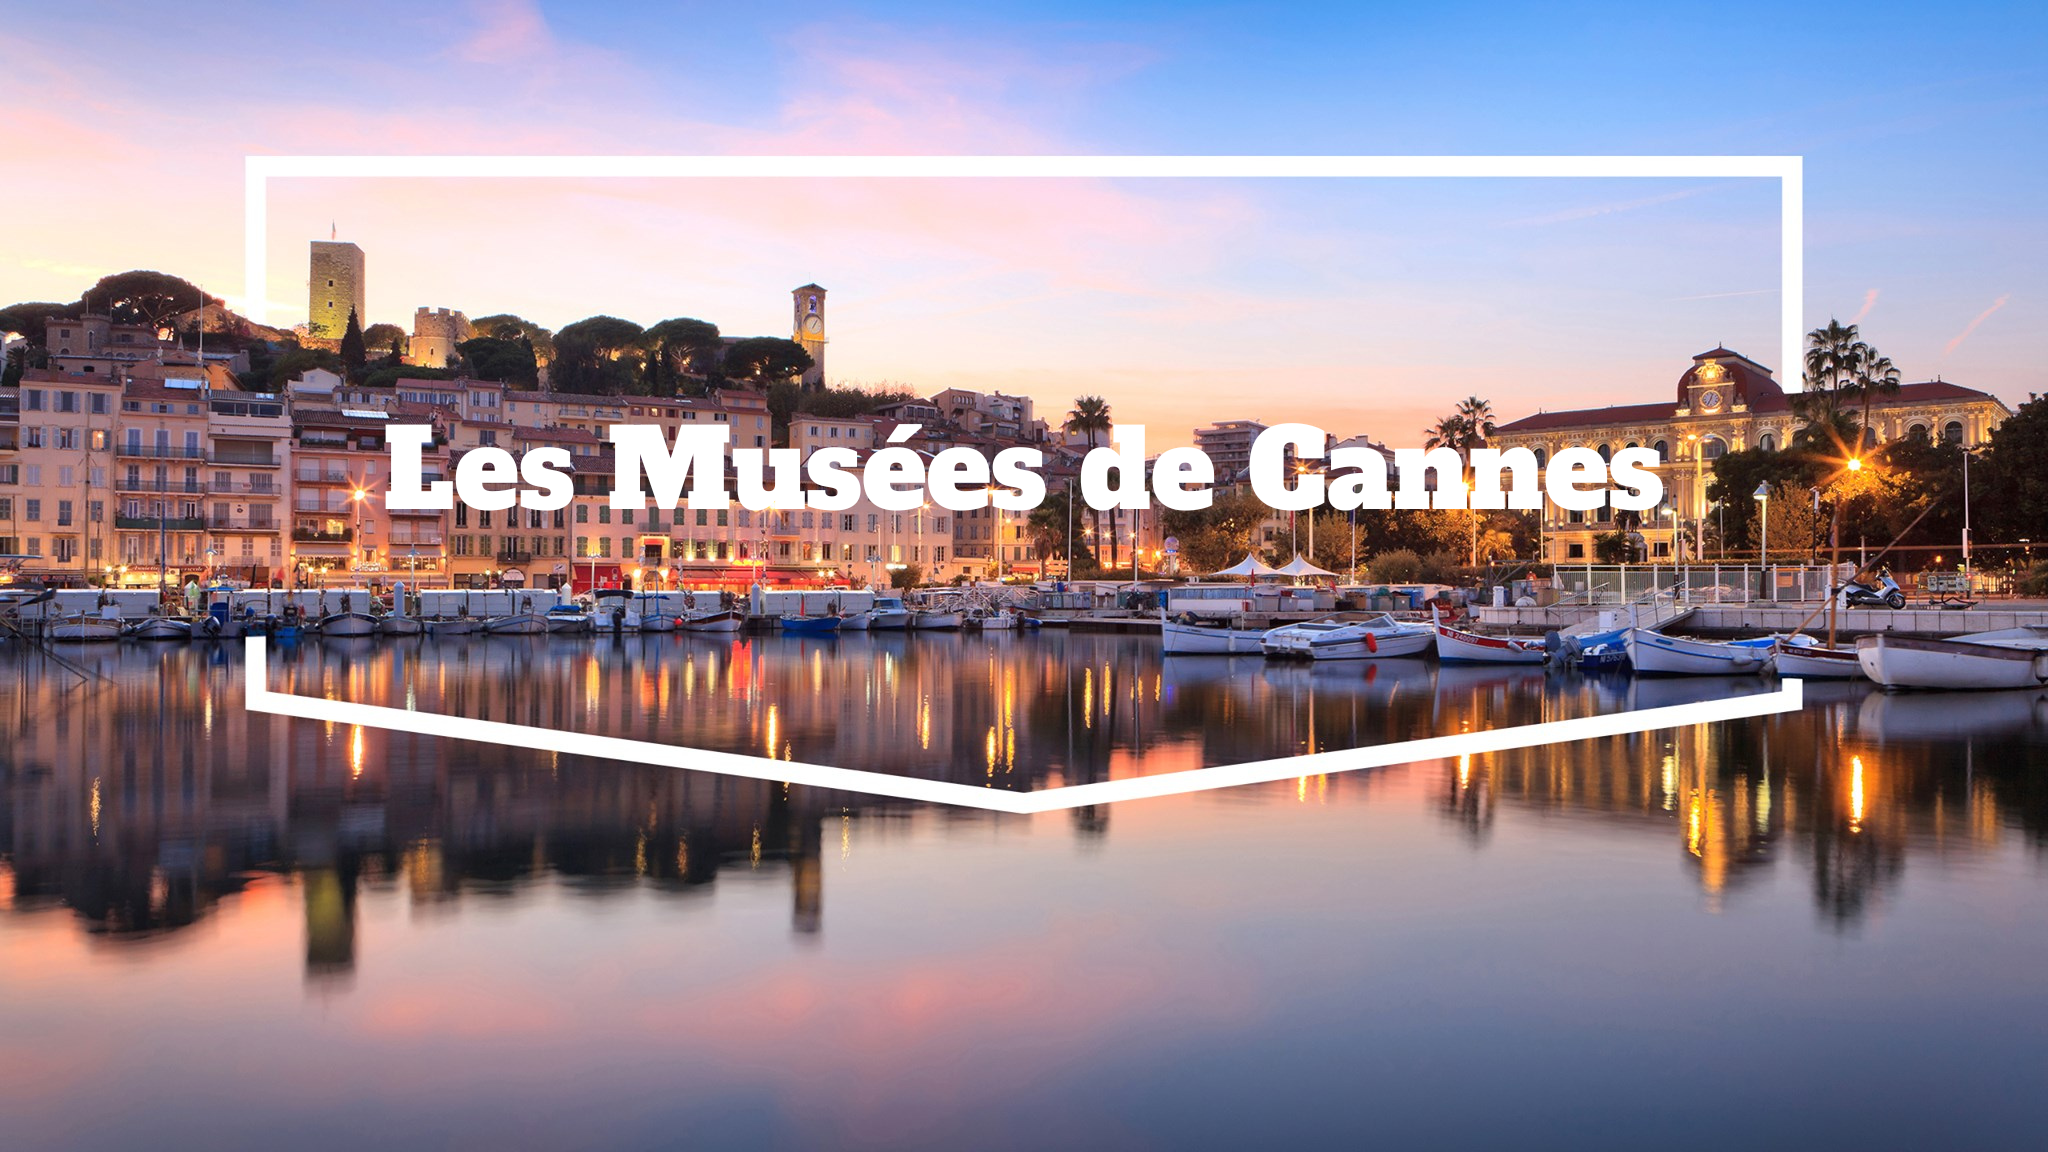
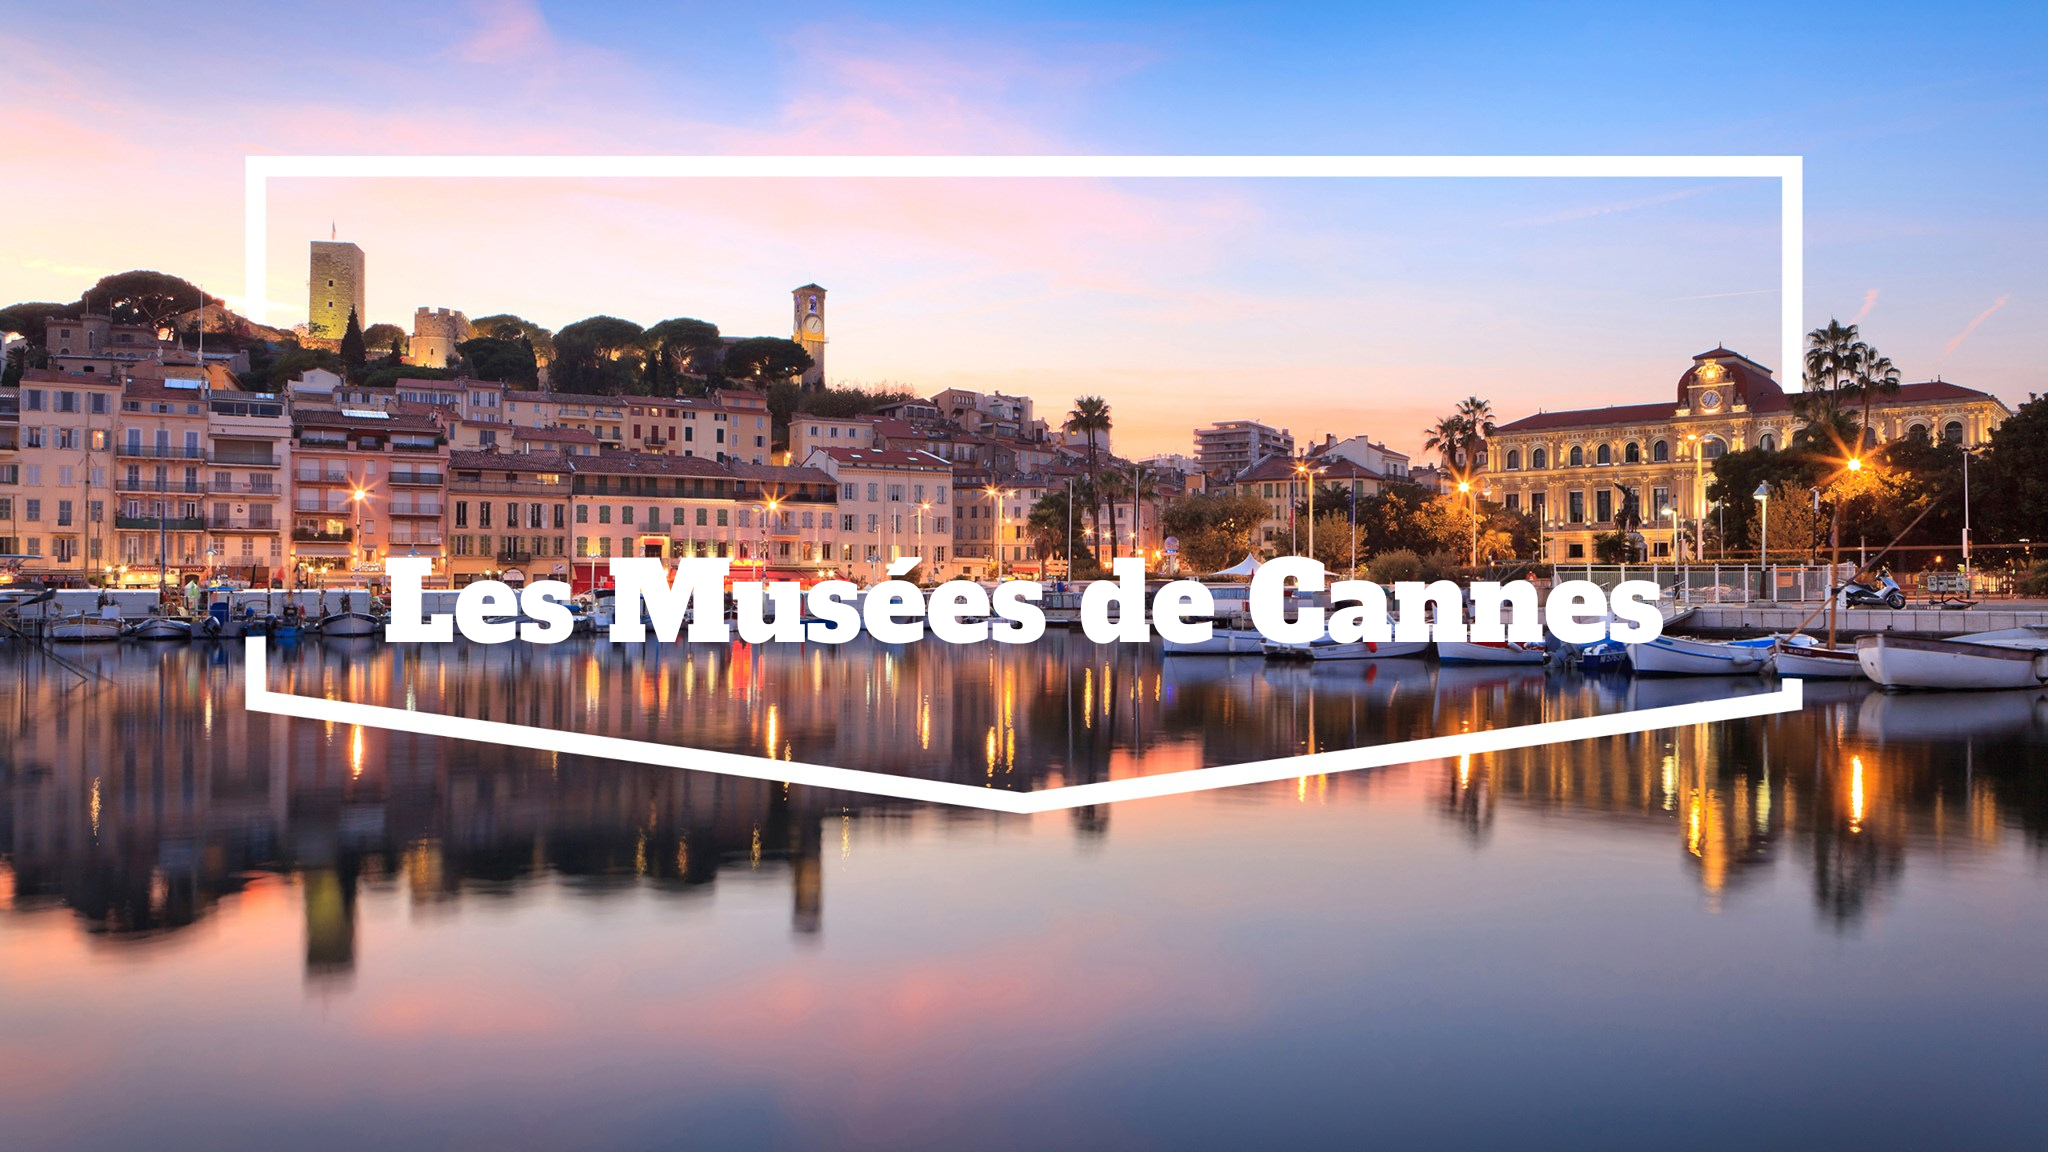
update title musées

Changed region(s): [[0.1875, 0.3438, 0.8125, 0.5625]]

diff --git a/pages/Musées.html b/pages/Musées.html
@@ -28,10 +28,9 @@
             </div>  
           </nav> 
 
-                <div class="title">
-                <div><a href="../img/Les Musées de Cannes.png"></a>
-                </div>
-                </div>
+          <div class="title">      
+          <img src="../img/Les Musées de Cannes.png">
+          </div>
 
           <div class="image-slider">
             <!-- Conteneur pour le défilement d'images -->

diff --git a/css/cannes5.css b/css/cannes5.css
@@ -1,4 +1,19 @@
+.title {
+  display: flex;
+  overflow: hidden;
+  margin: auto;
+  width: 100%;
+  height: 300px;
+  justify-content: center;
+  align-items: center;
+}
 
+.title img {
+  width: 100%;
+  height: auto;
+  max-width: 100%;
+  overflow: hidden;
+}
 
 /* Styles pour le défilement d'images */
 .image-slider {
